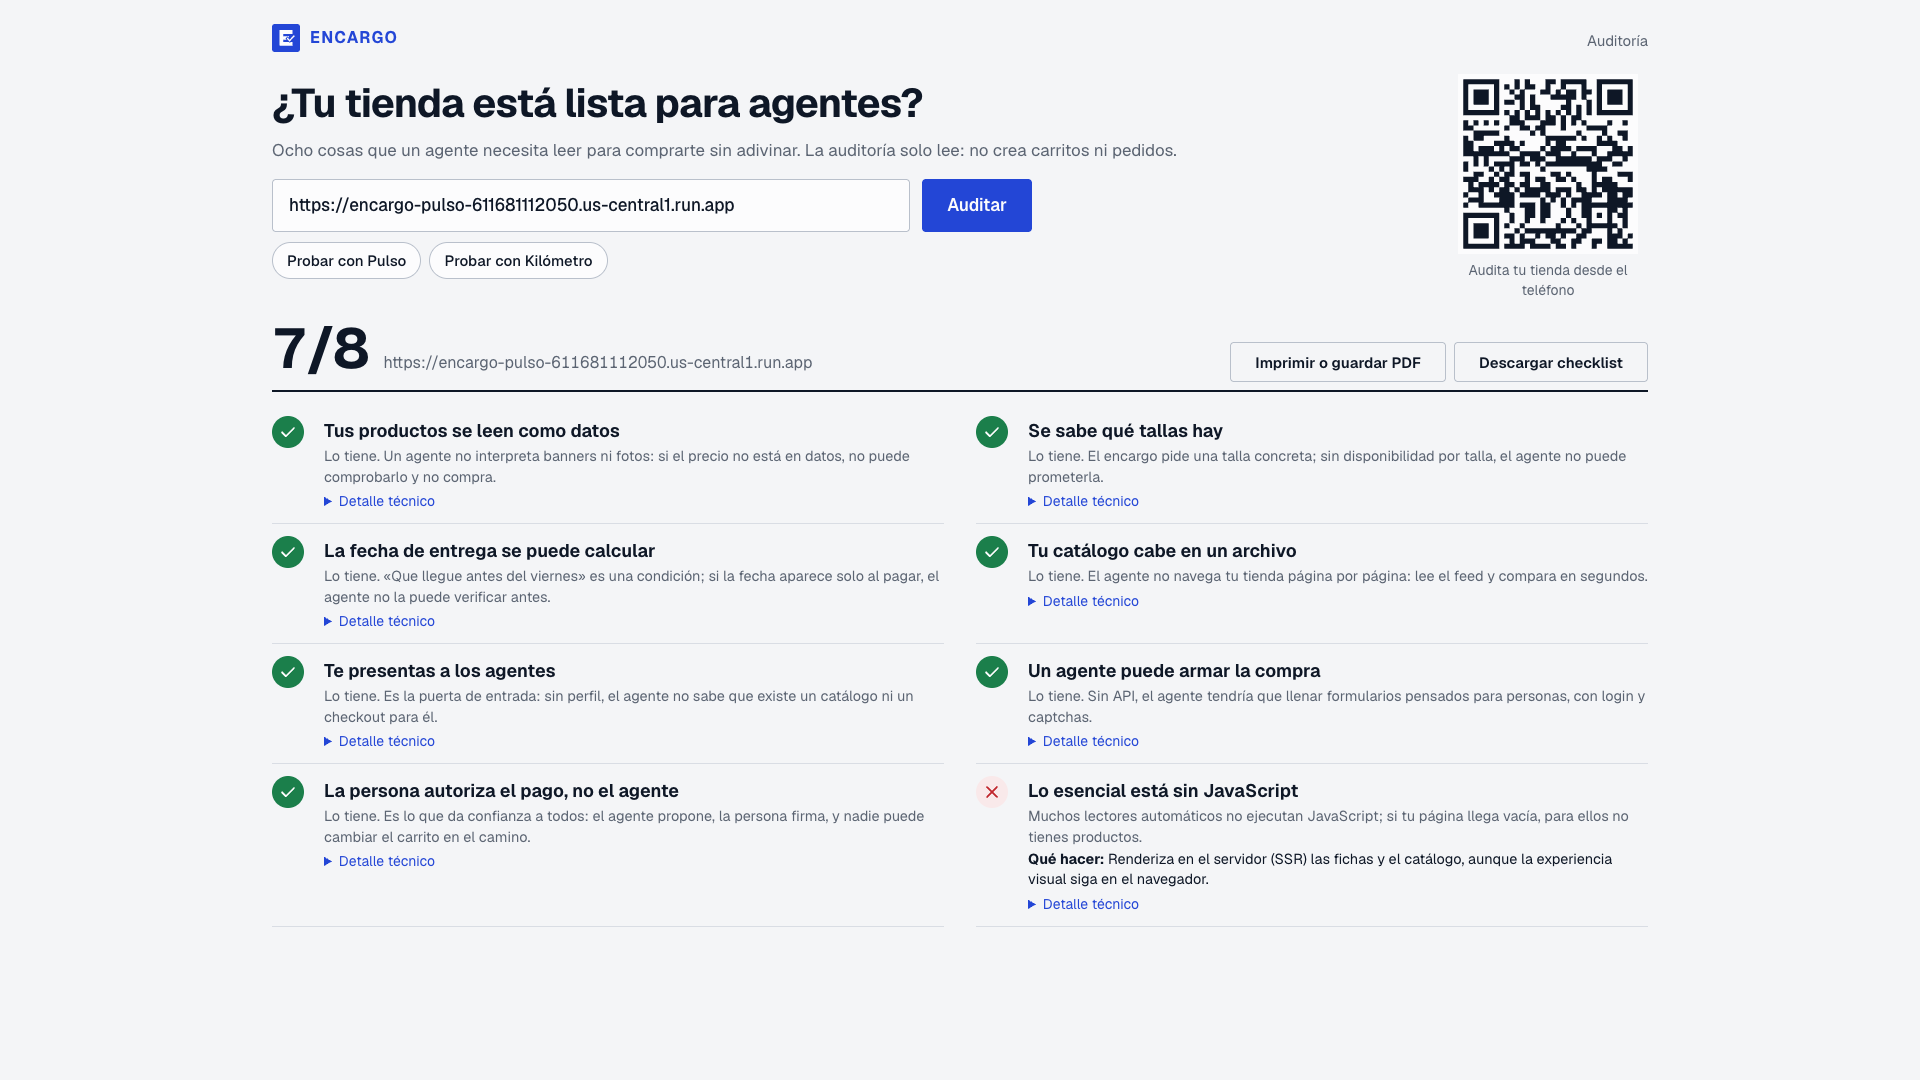
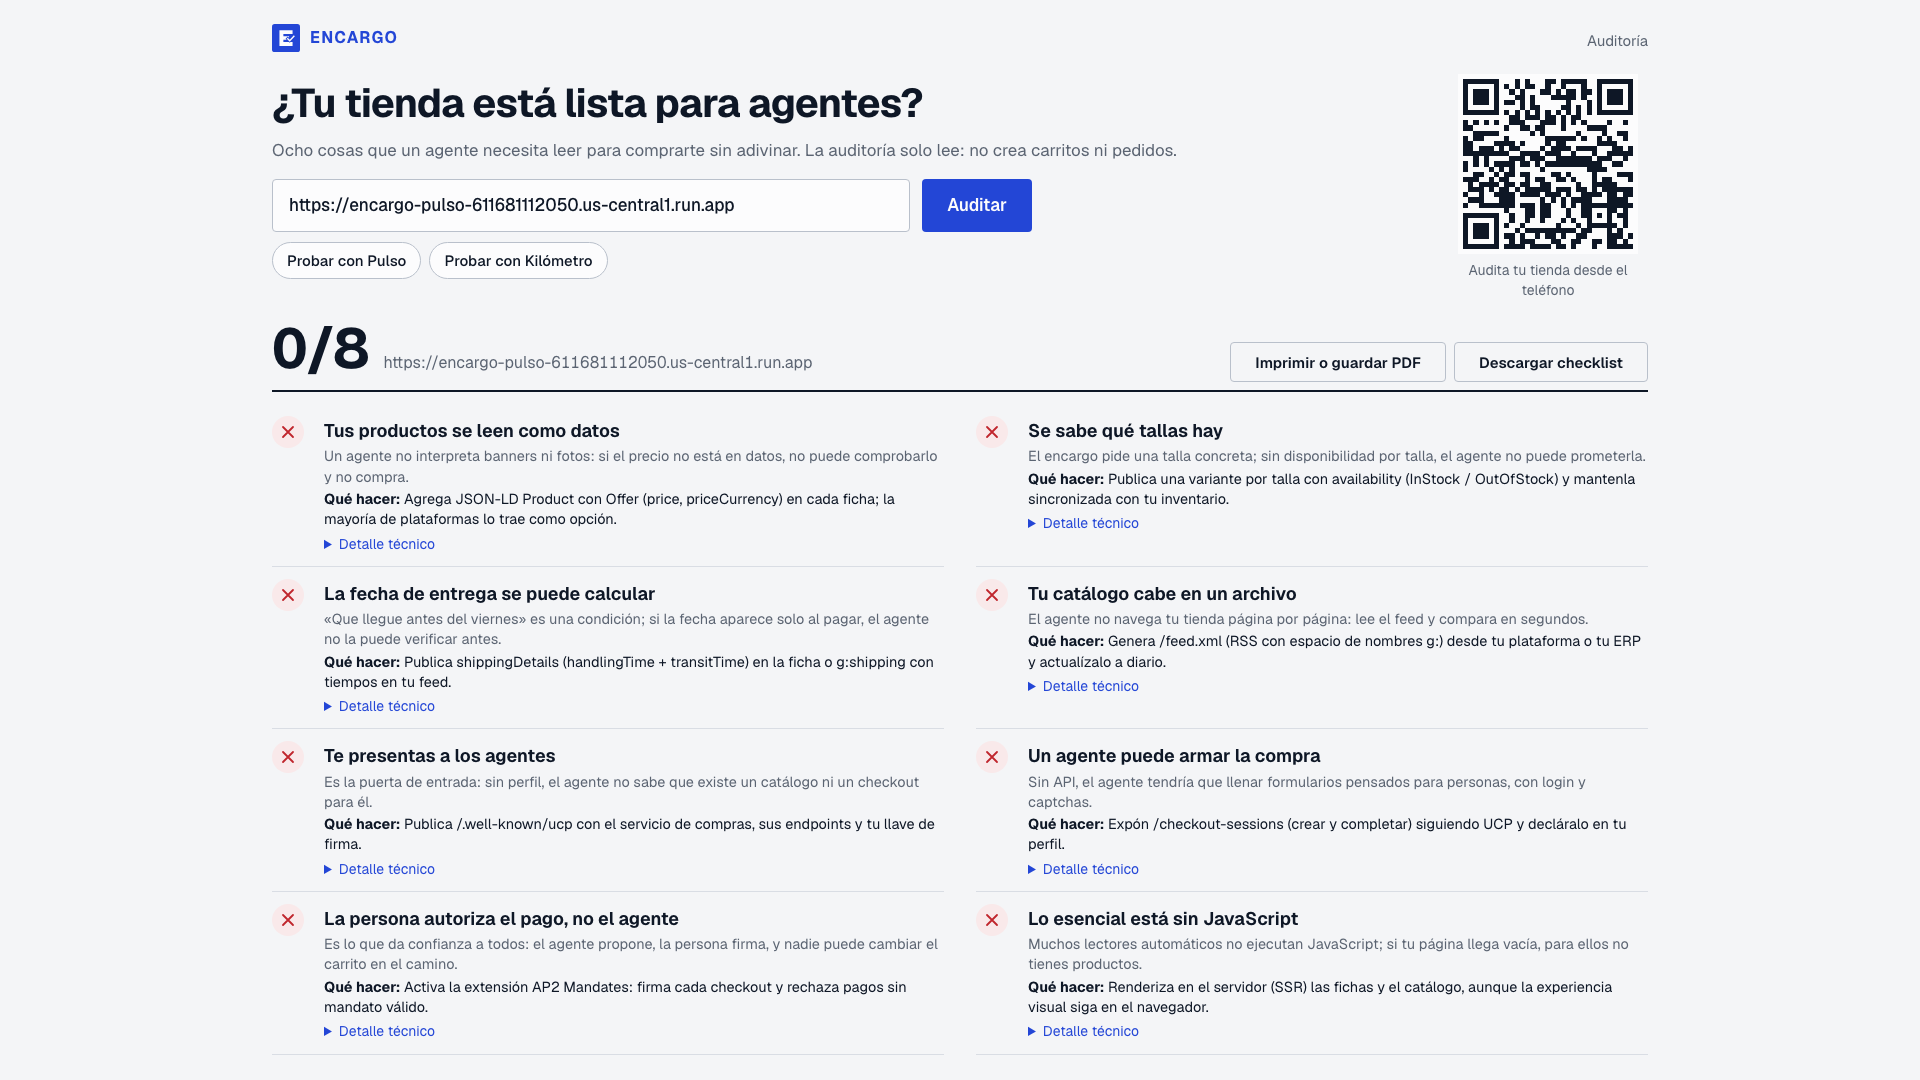
Talk script: turn control mode back off before the audit (left on, Pulso scored 7/8 instead of 0/8); demo_screens does the same click, and docs/demo/12-auditoria-pulso.png retaken live on Cloud Run showing Pulso 0/8

Changed region(s): [[0.125, 0.3667, 0.8438, 0.9778], [0.75, 0.0611, 0.8438, 0.2444], [0.125, 0.3056, 0.1562, 0.3361]]

diff --git a/scripts/demo_screens.py b/scripts/demo_screens.py
@@ -117,7 +117,10 @@ async def main(a: argparse.Namespace) -> None:
             await run_errand(phone, presenter, a, "09", first=False)
             await shot(presenter, "10-presentador-control-pulso", 1500)
 
-            # 4. The audit: QR for the audience, then the two stores side by side.
+            # 4. The audit: control mode back off first (it makes Pulso legible: the audit would say 7/8),
+            # then the QR for the audience and the two stores side by side.
+            await presenter.get_by_role("button", name="Modo de control").click()
+            await presenter.locator(".p-control strong", has_text="APAGADO").wait_for(timeout=30000)
             audit = await ctx.new_page()
             await audit.set_viewport_size({"width": 1920, "height": 1080})
             await audit.goto(f"{a.app}/auditoria")

diff --git a/docs/DEMO.md b/docs/DEMO.md
@@ -121,7 +121,7 @@ Ahora las dos tiendas cumplen todo y la decisión es «Pulso · 139 USD». Firma
 
 ![Auditoría con QR](demo/11-auditoria-qr.png)
 
-**Haz:** trae la pestaña de la auditoría al proyector. El público escanea el QR para auditar su propia tienda desde su teléfono.
+**Haz:** en el presentador, haz clic otra vez en **Modo de control** para dejarlo «APAGADO» (si queda encendido, Pulso sale 7/8 en la auditoría). Luego trae la pestaña de la auditoría al proyector. El público escanea el QR para auditar su propia tienda desde su teléfono.
 
 **Di:** «El checklist práctico: ocho cosas que un agente necesita leer. Escaneen el código y auditen su tienda.»
 

diff --git a/docs/DEMO.en.md b/docs/DEMO.en.md
@@ -121,7 +121,7 @@ Now both stores meet everything and the decision is «Pulso · 139 USD». Sign w
 
 ![Audit with QR](demo/11-auditoria-qr.png)
 
-**Do:** bring the audit tab to the projector. The audience scans the QR to audit their own store from their phone.
+**Do:** in the presenter, click **Modo de control** again so it reads «APAGADO» (left on, Pulso scores 7/8 in the audit). Then bring the audit tab to the projector. The audience scans the QR to audit their own store from their phone.
 
 **Say:** "The practical checklist: eight things an agent needs to read. Scan the code and audit your store."
 
